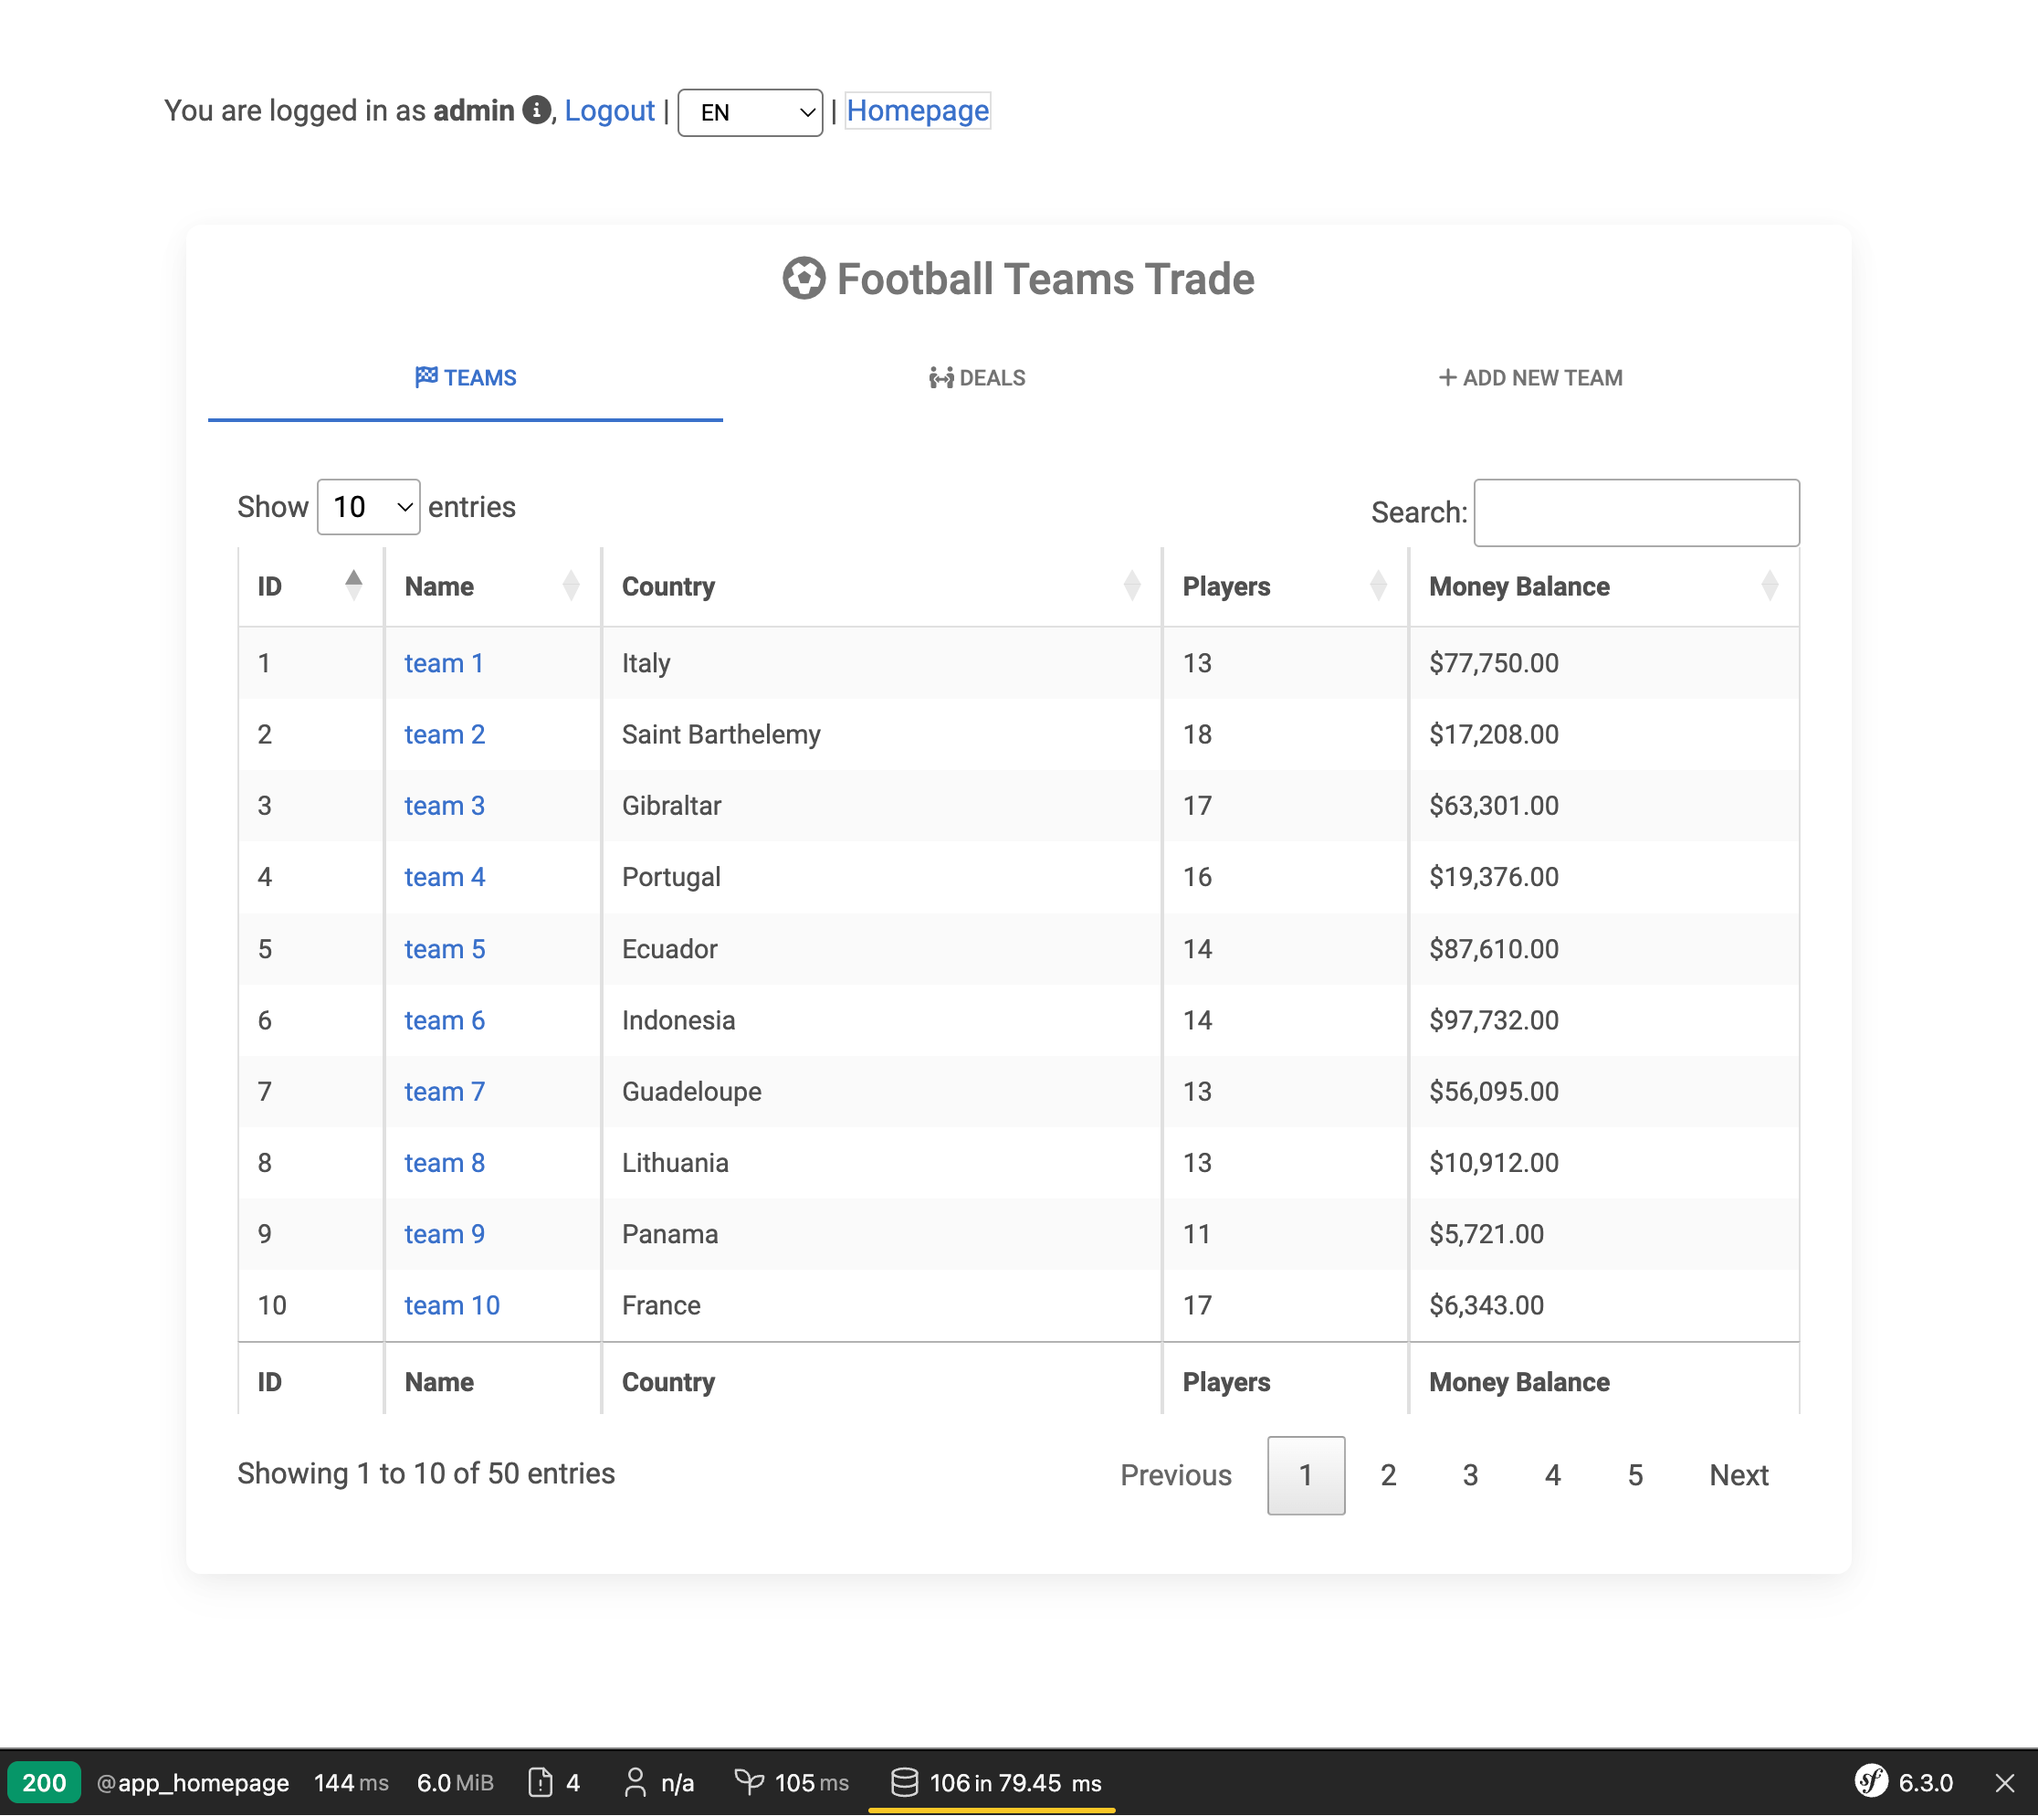
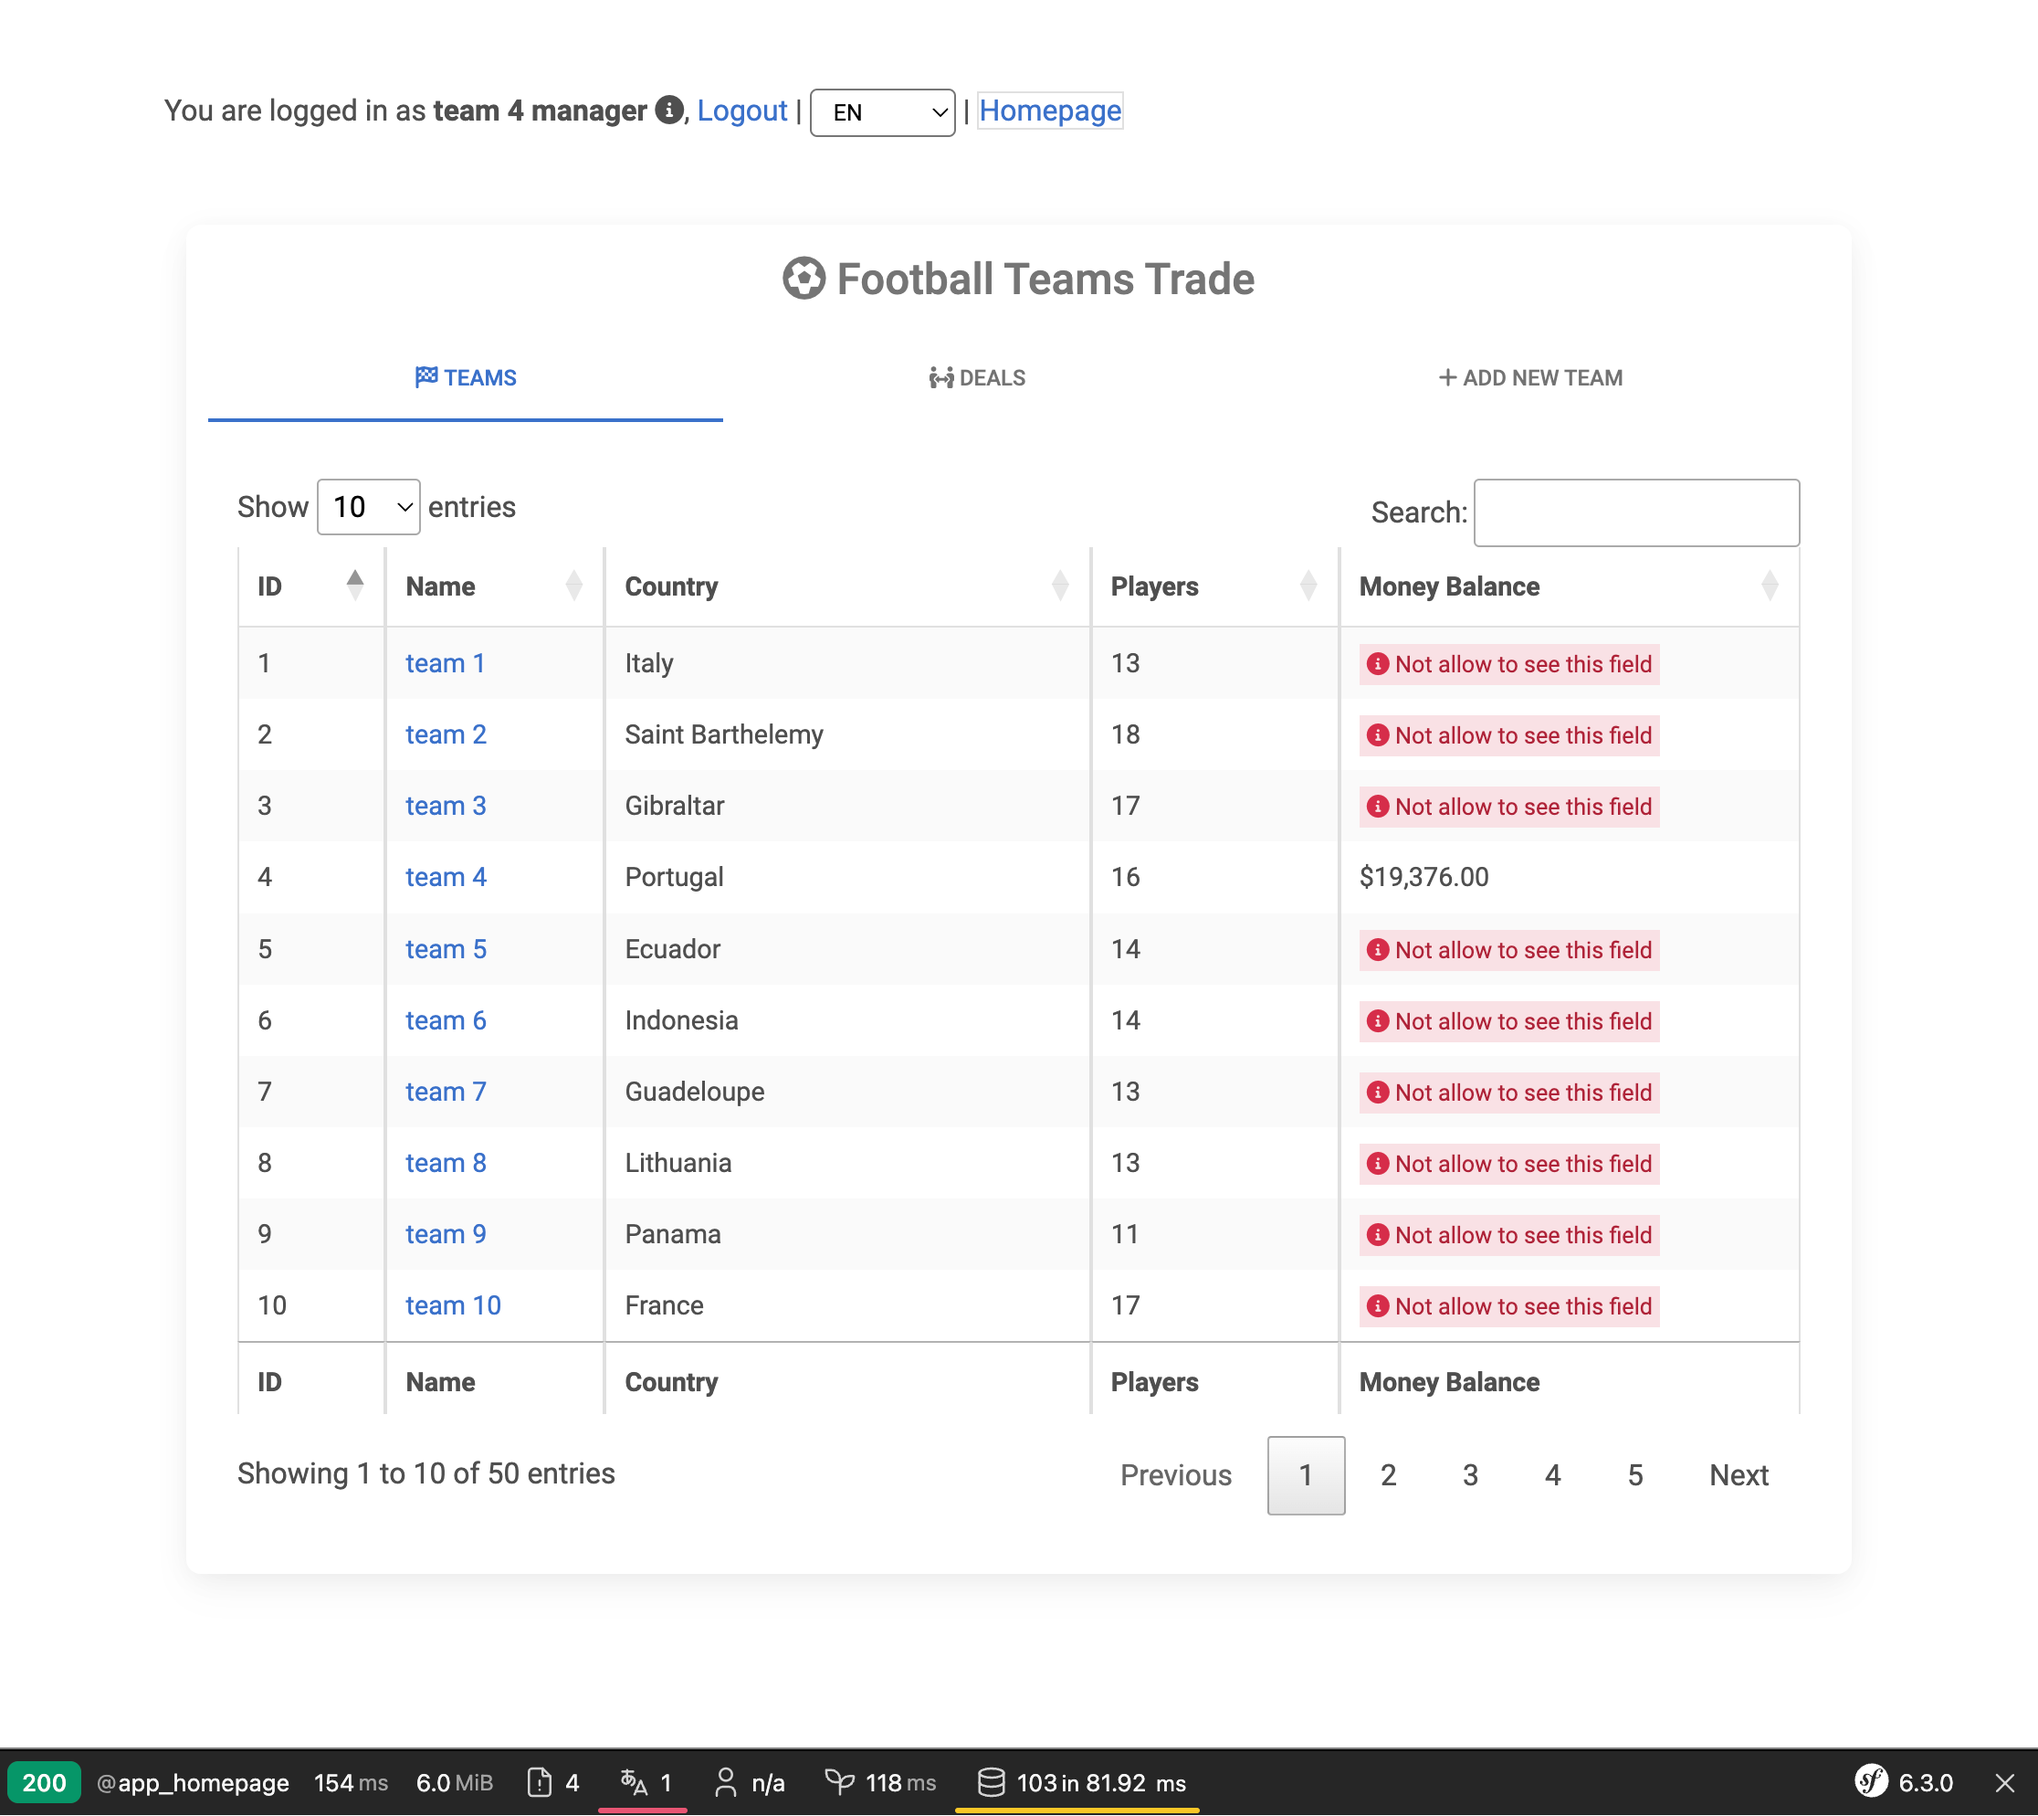
Add team screenshot.

diff --git a/README.md b/README.md
@@ -9,6 +9,8 @@
 <img src="screenshots/teams.png">
 <hr />
 <img src="screenshots/new-team.png">
+<hr />
+<img src="screenshots/team.png">
 
 <br />
 
